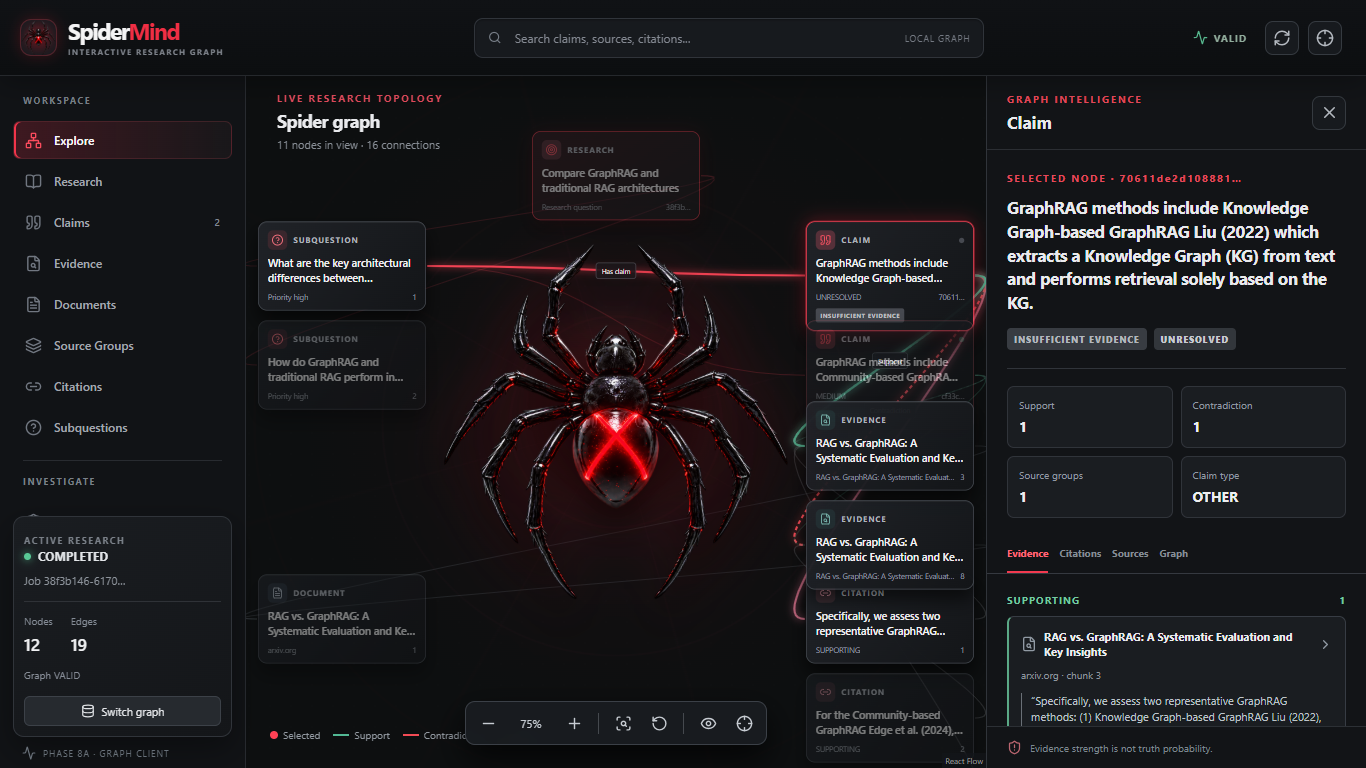
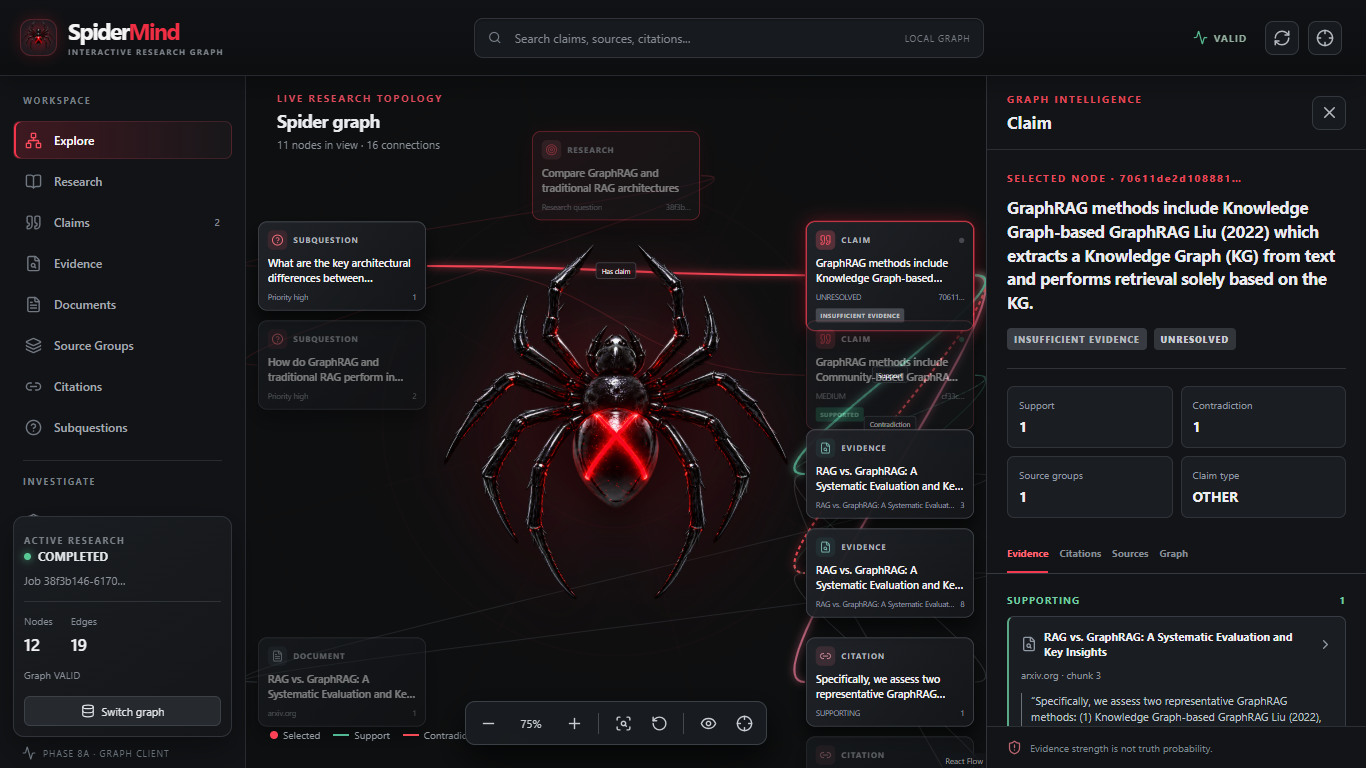
frontend phase C

Changed region(s): [[0.5534, 0.4375, 0.7072, 1.0], [0.1845, 0.75, 0.3075, 0.9375], [0.7072, 0.375, 0.7379, 0.4062]]

diff --git a/frontend/src/components/graph/GraphWorkspace.tsx b/frontend/src/components/graph/GraphWorkspace.tsx
@@ -25,6 +25,7 @@ function Canvas(props: Props) {
   const flow = useReactFlow<UiNode>()
   const workspaceRef = useRef<HTMLDivElement>(null)
   const [dimensions, setDimensions] = useState({ width: 0, height: 0 })
+  const [flowReady, setFlowReady] = useState(false)
   const [zoom, setZoom] = useState(0.76)
   const [labels, setLabels] = useState(true)
   const [web, setWeb] = useState(true)
@@ -49,10 +50,10 @@ function Canvas(props: Props) {
   }, [])
   useEffect(() => {
     if (!props.graph.nodes.length) { initialized.current = false; return }
-    if (!dimensions.width || !dimensions.height || initialized.current) return
+    if (!flowReady || !dimensions.width || !dimensions.height || initialized.current) return
     initialized.current = true
     void flow.setCenter(0, 0, { zoom: layoutZoom, duration: 0 })
-  }, [props.graph.nodes.length, dimensions, layoutZoom, flow])
+  }, [props.graph.nodes.length, dimensions, layoutZoom, flow, flowReady])
   useEffect(() => {
     if (!props.focusId) { lastFocus.current = null; return }
     if (lastFocus.current === props.focusId) return
@@ -77,6 +78,7 @@ function Canvas(props: Props) {
     <div className="graph-workspace-label"><span className="eyebrow">LIVE RESEARCH TOPOLOGY</span><strong>Spider graph</strong><span>{visible.nodes.length} nodes in view · {visible.edges.length} connections{props.graph.truncated ? ' · bounded view' : ''}</span></div>
     <ReactFlow
       nodes={visual.nodes} edges={visual.edges} nodeTypes={nodeTypes} edgeTypes={edgeTypes}
+      onInit={() => setFlowReady(true)}
       onNodeClick={handleClick} onNodeDoubleClick={handleDoubleClick} onPaneClick={props.onClear}
       onMoveEnd={(_event, viewport) => setZoom(viewport.zoom)}
       minZoom={0.18} maxZoom={1.65}

diff --git a/frontend/src/features/graph/graphLayout.ts b/frontend/src/features/graph/graphLayout.ts
@@ -36,11 +36,16 @@ export function graphLayout(nodes: GraphNodeDto[], viewport?: LayoutViewport): M
     left: (sidePadding - viewport.width / 2) / zoom,
     right: (viewport.width / 2 - sidePadding - cardWidth) / zoom,
   } : null
+  const upperCount = Math.max(grouped.get('SUBQUESTION')?.length ?? 0, grouped.get('CLAIM')?.length ?? 0)
+  const middleCount = Math.max(grouped.get('SOURCE_GROUP')?.length ?? 0, grouped.get('EVIDENCE_CHUNK')?.length ?? 0)
+  const upperScreenY = dynamic ? viewport.height * 0.21 : 0
+  const middleScreenY = dynamic ? Math.max(viewport.height * 0.47, upperScreenY + upperCount * 132 * zoom + 10) : 0
+  const lowerScreenY = dynamic ? Math.max(viewport.height * 0.72, middleScreenY + middleCount * 132 * zoom + 10) : 0
   const rowY = dynamic ? {
     top: (55 - viewport.height / 2) / zoom,
-    upper: (viewport.height * 0.21 - viewport.height / 2) / zoom,
-    middle: (viewport.height * 0.47 - viewport.height / 2) / zoom,
-    lower: (viewport.height * 0.72 - viewport.height / 2) / zoom,
+    upper: (upperScreenY - viewport.height / 2) / zoom,
+    middle: (middleScreenY - viewport.height / 2) / zoom,
+    lower: (lowerScreenY - viewport.height / 2) / zoom,
   } : null
   for (const [type, items] of grouped) {
     items.sort((a, b) => a.id.localeCompare(b.id))

diff --git a/frontend/src/tests/graphLogic.test.ts b/frontend/src/tests/graphLogic.test.ts
@@ -75,6 +75,9 @@ describe('Phase 7 graph adapter', () => {
           expect(cardLeft).toBeGreaterThan(spiderRight)
         }
       }
+      const bottomMiddle = positions.get('evidence_chunk:2')!
+      const firstLower = positions.get('citation:1')!
+      expect((firstLower.y - bottomMiddle.y) * viewport.zoom).toBeGreaterThan(90)
     }
   })
 })

diff --git a/project_context.md b/project_context.md
@@ -40,7 +40,7 @@ Phase 8A reads Phase 7 records and does not create claims, change confidence, or
 
 The HTTP layer under `app/api/routes` performs request parsing, status lookup, filtering, and serialization. `app/services` owns crawl/research orchestration. `app/crawler`, `app/rag`, `app/agent`, and `app/evidence` implement the phase logic. SQLAlchemy models live in `app/db/models.py` and the phase-specific `models.py` files. All main job types run as in-process `asyncio` tasks. The agent uses LangGraph checkpoints; the other job types persist their status/progress in SQLite.
 
-`frontend/` is a separate Vite client. Its central API module maps the actual Phase 7 DTOs; a hook coordinates snapshot loading, polling, bounded `/subgraph` expansion, claim inspection, contradictions, and directed paths. A deterministic layout adapter converts graph records into customized React Flow nodes and edges. The spider is a decorative asset, not a graph node. Vite proxies local API requests to FastAPI, so the backend needs no CORS change for the documented development setup. The frontend does not use LLMs or mock production graph data.
+`frontend/` is a separate Vite client. Its central API module maps the actual Phase 7 DTOs; a hook coordinates snapshot loading, polling, bounded `/subgraph` expansion, claim inspection, contradictions, and directed paths. A deterministic responsive layout adapter converts graph records into customized React Flow nodes and edges around the central spider. The spider is a decorative transparent derivative of the supplied reference, not a graph node. Vite proxies local API requests to FastAPI, so the backend needs no CORS change for the documented development setup. The frontend does not use LLMs or mock production graph data.
 
 The shared embedding provider is local Sentence Transformers `BAAI/bge-m3`. Phase 3 planning and structured Phase 5/6 LLM calls use local Ollama, default `Qwen3:latest`. Search uses `ddgs`. Phase 4 vectors use local Qdrant; lexical search uses SQLite FTS5 or a local BM25 fallback. Reranking defaults to the local `BAAI/bge-reranker-v2-m3` cross encoder on CPU. Phase 6 NLI defaults to `MoritzLaurer/DeBERTa-v3-base-mnli-fever-anli` on CPU. Model loading/downloading can dominate the first request; no external hosted LLM API is wired in the default app.
 
@@ -338,7 +338,8 @@ This lists every Python source/test/script file and every tracked text artifact,
 | `frontend/src/utils/safety.ts` | Safe HTTP(S) source links and short IDs. |
 | `frontend/src/styles/global.css` | Dark responsive design, web motif, reduced-motion behavior. |
 | `frontend/src/tests/{fixture,setup,graphLogic,safetyAndApi,InspectorDrawer,Navigation,App.integration,liveApi}.*` | Controlled DTO fixtures, frontend behavior tests, and an optional real Phase 7 API integration test. |
-| `frontend/src/assets/README.md` | Placement for the two required PNG assets, which were absent at implementation time. |
+| `frontend/src/assets/{spider-reference,spider-cutout,spidermind-ui-reference}.png`, `README.md` | Original spider and UI references, transparent runtime cutout, and asset provenance. |
+| `frontend/scripts/verify-phase8a{,-interactions}.mjs` | Local Chrome screenshots, viewport/console measurements, and real UI interaction checks. |
 | `frontend/README.md`, `.env.example` | Setup, API origin, interaction, and quality-gate documentation. |
 | `backend/scripts/prepare_phase8a_ui_smoke.py` | Copies completed Phase 6 data and builds a real local Phase 7 snapshot for UI development. |
 
@@ -391,13 +392,15 @@ cd frontend
 npm run lint
 npm run test
 npm run build
+npm run visual:verify
+npm run visual:interactions
 ```
 
 For targeted development, `pytest backend/tests/test_phase2.py`, `test_phase3.py`, `test_phase4.py`, `test_phase5.py`, or the three evidence test files isolate a phase. Controlled evaluation commands are documented in `README.md`; they may load local models and create SQLite/Qdrant artifacts. Run smoke scripts only when a bounded live search/model run is intended.
 
 ## 10. How this context was assembled
 
-The original Phase 1–6 inventory covered 165 non-cache files (93 Python files) before this document and the Phase 7 implementation were added. The Phase 7 and 8A source, tests, scripts, requirements, result JSON, and documentation are included in the guide above. Python files parsed successfully as Python AST; JSON files parsed successfully; text files decoded as UTF-8; SQLite files were opened read-only for table inventories. The application, route, schema, service, model, test, fixture, script, and evaluation behavior was cross-checked against the current source and recorded artifacts. The Phase 8A API and frontend tests passed, but visual review remains pending because the referenced PNGs and an in-app browser were unavailable. This document summarizes each file's role and important contracts; the source remains authoritative for every branch and field.
+The original Phase 1–6 inventory covered 165 non-cache files (93 Python files) before this document and the Phase 7 implementation were added. The Phase 7 and 8A source, tests, scripts, requirements, result JSON, and documentation are included in the guide above. Python files parsed successfully as Python AST; JSON files parsed successfully; text files decoded as UTF-8; SQLite files were opened read-only for table inventories. The application, route, schema, service, model, test, fixture, script, and evaluation behavior was cross-checked against the current source and recorded artifacts. Phase 8A was rendered with a real copied Phase 7 graph and compared manually against the supplied UI reference at 1920×1080, 1440×900, 1366×768, and 1024×768. Local Chrome recorded zero application console errors and warnings. The source remains authoritative for every branch and field.
 
 ## Appendix A. Complete `SPIDERMIND_` settings inventory
 

diff --git a/frontend/README.md b/frontend/README.md
@@ -4,7 +4,7 @@ React, TypeScript, Vite, and React Flow display the existing Phase 7 knowledge/c
 
 ## Required assets
 
-Place the supplied `spider-reference.png` and `spidermind-ui-reference.png` in `src/assets/`. The spider image is rendered by `SpiderHub`; the UI reference is used only for design review. If the spider image is absent, the workspace explicitly marks the asset as pending.
+The supplied `spider-reference.png` and `spidermind-ui-reference.png` are stored in `src/assets/`. The original spider has a white background and overlaid stock text, so `SpiderHub` renders the transparent `spider-cutout.png` derivative. The original remains unchanged for comparison. The UI reference is used only for design review and is never rendered as the app background. The cutout retains the black spider, angular pose, and glowing red X, with reconstructed surface details.
 
 ## Start locally
 
@@ -59,7 +59,16 @@ npm run test
 npm run build
 ```
 
-Tests use controlled Phase 7 response fixtures and do not require a live backend. The live UI smoke requires a running backend and the supplied spider image for visual approval. The React Flow canvas loads one bounded subgraph at a time; very large graph exploration would benefit from server-side search and viewport-aware paging.
+Tests use controlled Phase 7 response fixtures and do not require a live backend. The live UI smoke requires a running backend. The React Flow canvas loads bounded neighborhoods and merges them on demand; very large graph exploration would benefit from server-side search and viewport-aware paging.
+
+With the copied live backend and Vite server running, local Chrome visual checks can be repeated with:
+
+```powershell
+npm run visual:verify
+npm run visual:interactions
+```
+
+Set `CHROME_PATH` if Chrome is not at the default Windows installation path. The visual script captures the live expanded graph at 1920×1080, 1440×900, 1366×768, and 1024×768 under `docs/phase8a/screenshots/`, and records viewport geometry and console errors in `measurements.json`. The interaction script checks search, claim evidence, citation offsets, document links, source groups, filters, contradictions, paths, zoom, pan, and reduced motion. The screenshots use the real 12-node/19-edge copied Phase 7 snapshot. The design reference shows many more decorative nodes and sample jobs; the live UI displays only persisted graph data and actual job status.
 
 With the copied live backend running, the optional API-client integration test is:
 

diff --git a/README.md b/README.md
@@ -365,7 +365,7 @@ Additional graph endpoints list/filter edges, inspect node detail (chunk text is
 
 ## Phase 8A interactive Spider Graph UI
 
-The [frontend](frontend/README.md) is a React/TypeScript/Vite client using React Flow for a spider-centered, progressive Phase 7 graph. It loads a bounded research neighborhood, expands nodes on demand, and shows exact claim evidence, citations, contradictions, paths, summary counts, and consistency status from the existing API. The client has no fake production graph data and makes no graph or claim decisions. The supplied `frontend/src/assets/spider-reference.png` is required for the intended central visual; `spidermind-ui-reference.png` is design-only. These PNGs were not present when this implementation began and must be added for final visual approval.
+The [frontend](frontend/README.md) is a React/TypeScript/Vite client using React Flow for a spider-centered, progressive Phase 7 graph. It loads a bounded research neighborhood, expands nodes on demand, and shows exact claim evidence, citations, contradictions, paths, summary counts, and consistency status from the existing API. The client has no fake production graph data and makes no graph or claim decisions. The supplied `frontend/src/assets/spider-reference.png` is retained as the source identity; `spider-cutout.png` is the transparent runtime derivative, and `spidermind-ui-reference.png` is design-only. Live screenshots and viewport measurements are in `docs/phase8a/screenshots/`; results are recorded in `docs/phase8a-ui-smoke-results.json`.
 
 From the repository root, start the backend as in the Phase 7 section. Then:
 

diff --git a/frontend/src/assets/README.md b/frontend/src/assets/README.md
@@ -1,6 +1,7 @@
-Place the supplied visual references here:
+Visual assets for Phase 8A:
 
-- `spider-reference.png` — loaded by `SpiderHub` at runtime.
-- `spidermind-ui-reference.png` — design reference only; never rendered as a background.
+- `spider-reference.png` is the supplied 800 × 800 source image, retained unchanged for identity comparison.
+- `spider-cutout.png` is a transparent background extraction of that spider. `SpiderHub` imports it for the central visual and header mark because the source has a white background and overlaid stock text.
+- `spidermind-ui-reference.png` is the supplied 1672 × 941 design reference. The app never renders it as a background or graph data.
 
-The two PNG files were absent from the repository and text attachment when Phase 8A implementation began. The UI shows an explicit pending-asset marker until the spider image is available.
+The cutout preserves the black spider and red X, but its surface details are reconstructed, so it is not pixel-identical to the source. The UI's labels, counts, claims, citations, and links come from the Phase 7 API.
